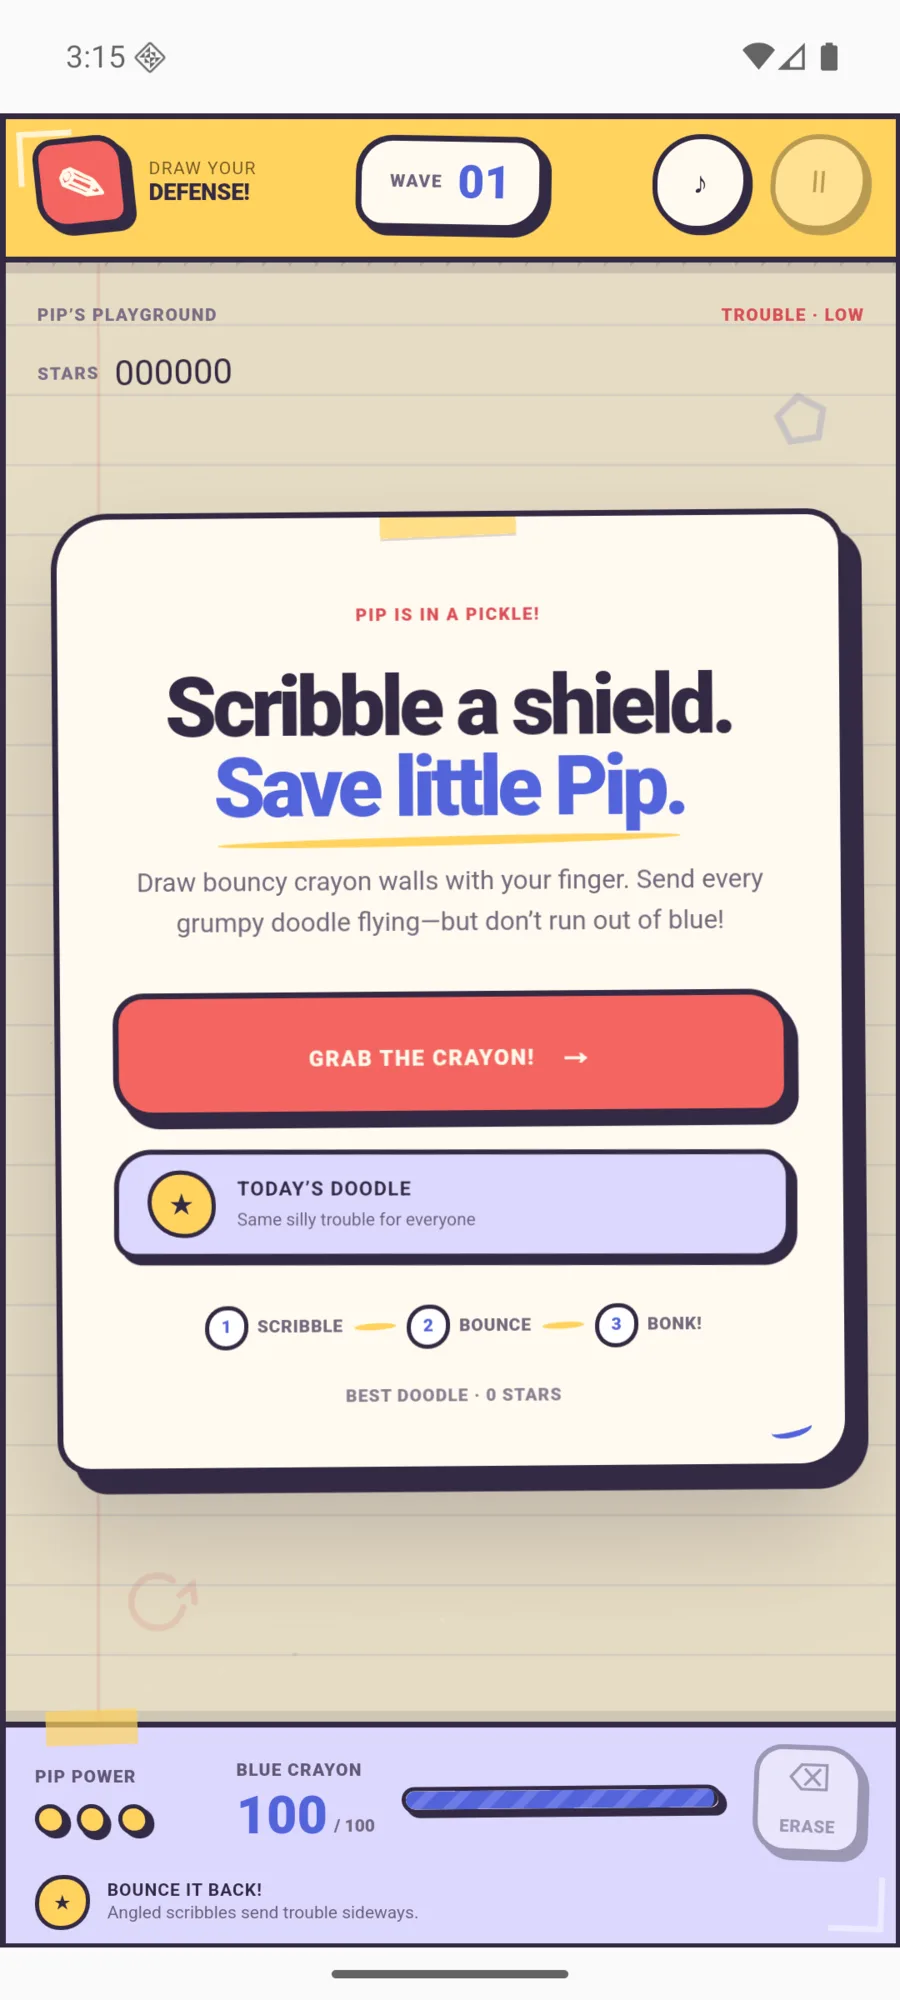
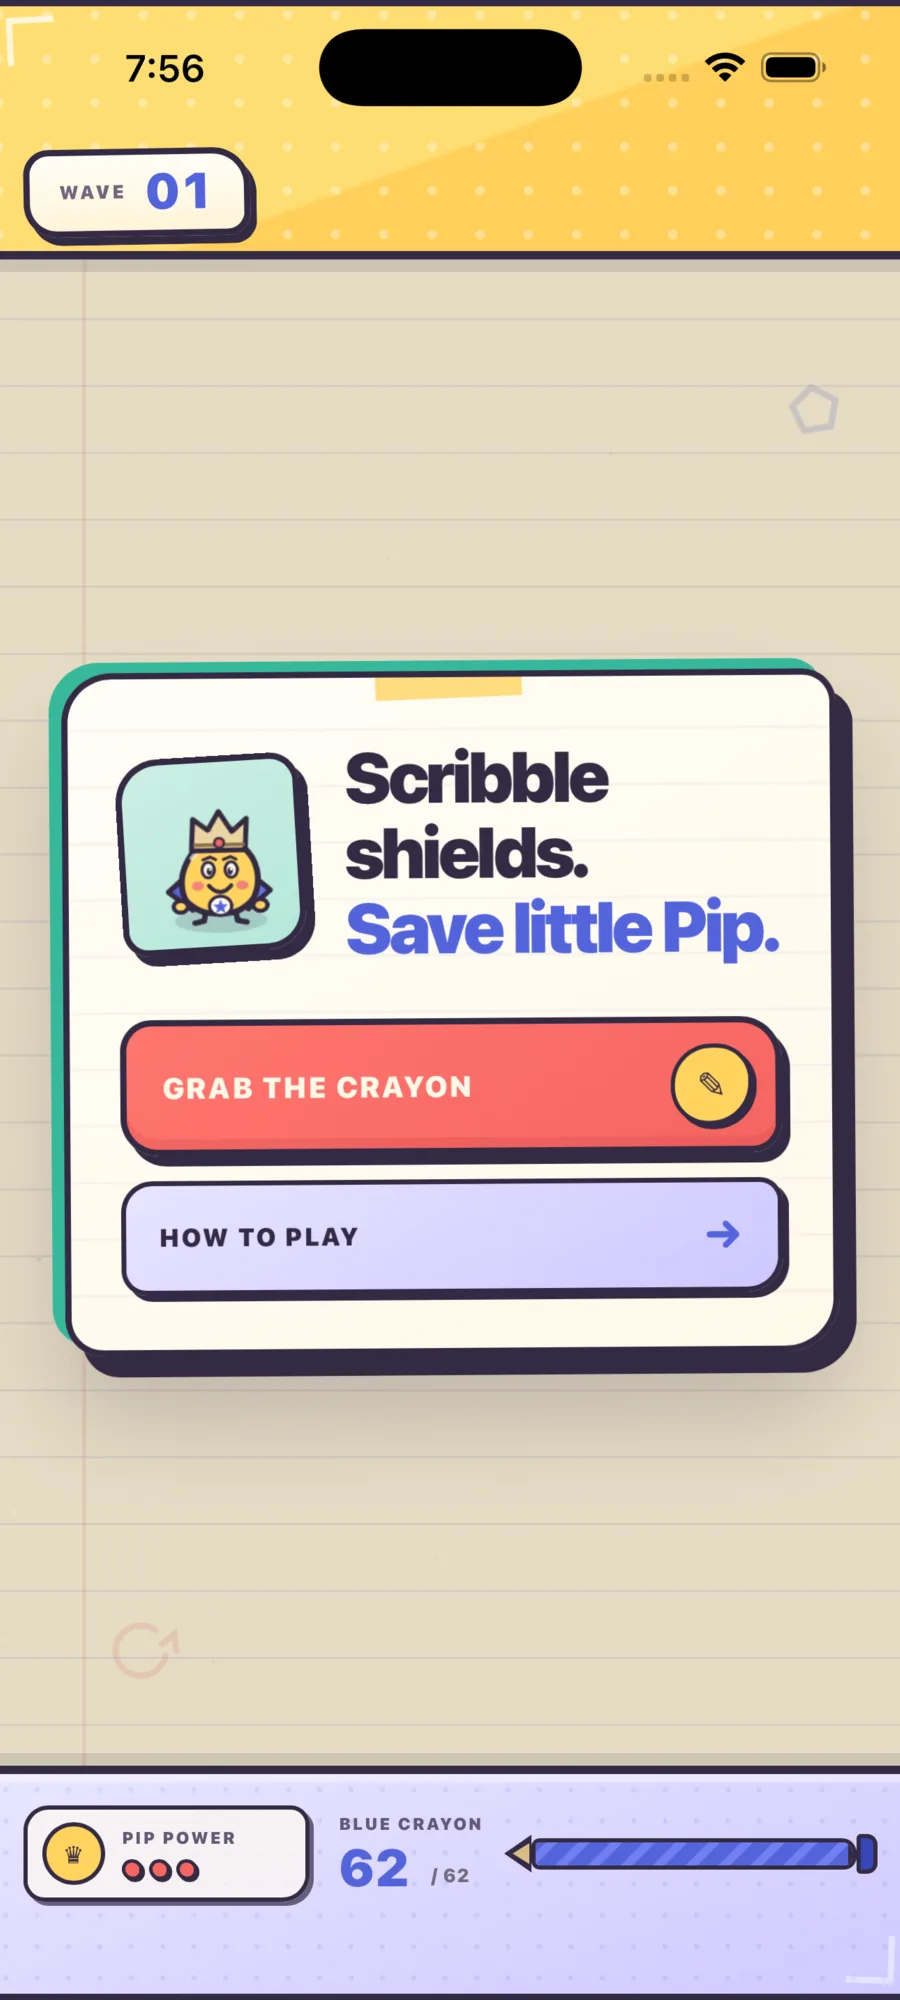
Refresh Draw Your Defense catalog preview

diff --git a/catalog.js b/catalog.js
@@ -365,10 +365,10 @@ window.APP_CATALOG = [
     id: "draw-your-defense",
     name: "Draw Your Defense",
     category: "Arcade defense game",
-    description: "Scribble limited-life shields, bounce trouble away from Pip, and chase personal and daily-run bests.",
+    description: "Scribble limited-life shields inside Pip's defense ring, bounce attacks back, and stack upgrades between waves.",
     icon: "/assets/icons/draw-your-defense.webp",
     screenshot: "/assets/screenshots/draw-your-defense.webp",
-    screenshotAlt: "Draw Your Defense tutorial showing Pip, the crayon meter, and the Grab the Crayon action",
+    screenshotAlt: "Draw Your Defense opening screen with Pip and the Grab the Crayon action",
     status: "coming",
     statusLabel: "Release updates coming soon",
     accent: "blue",

diff --git a/index.html b/index.html
@@ -49,7 +49,7 @@
             <p>Made in our workshop</p>
             <h2 id="apps-title">Meet the apps</h2>
           </div>
-          <p class="apps-count"><strong data-total-count>27</strong> independent products<br />for work, life, and play<span class="release-snapshot">Catalog updated August 25, 2026</span></p>
+          <p class="apps-count"><strong data-total-count>27</strong> independent products<br />for work, life, and play<span class="release-snapshot">Catalog updated August 26, 2026</span></p>
         </div>
         <div class="app-grid" id="app-grid"></div>
         <noscript><p class="noscript-note">Turn on JavaScript to view the app collection.</p></noscript>
